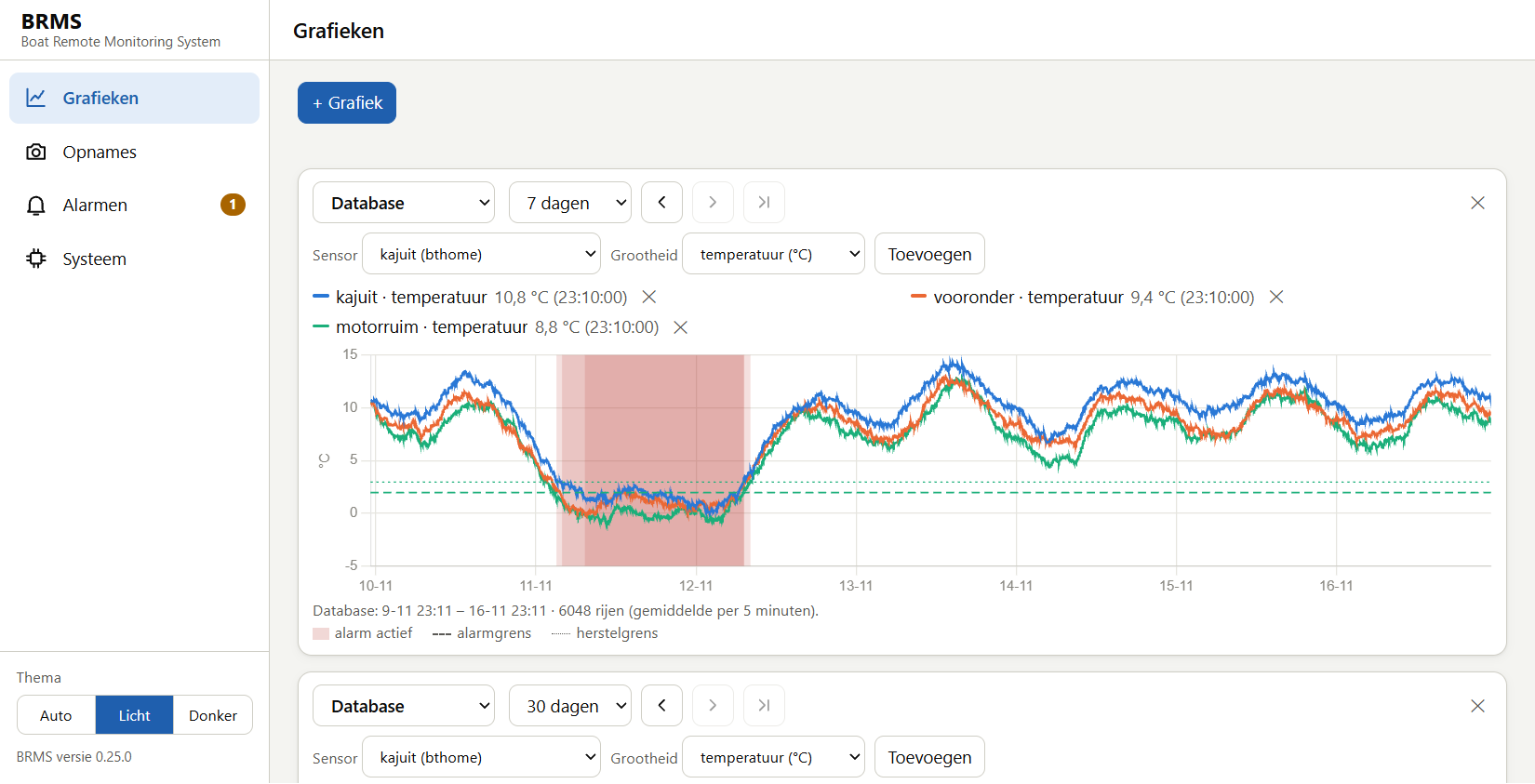
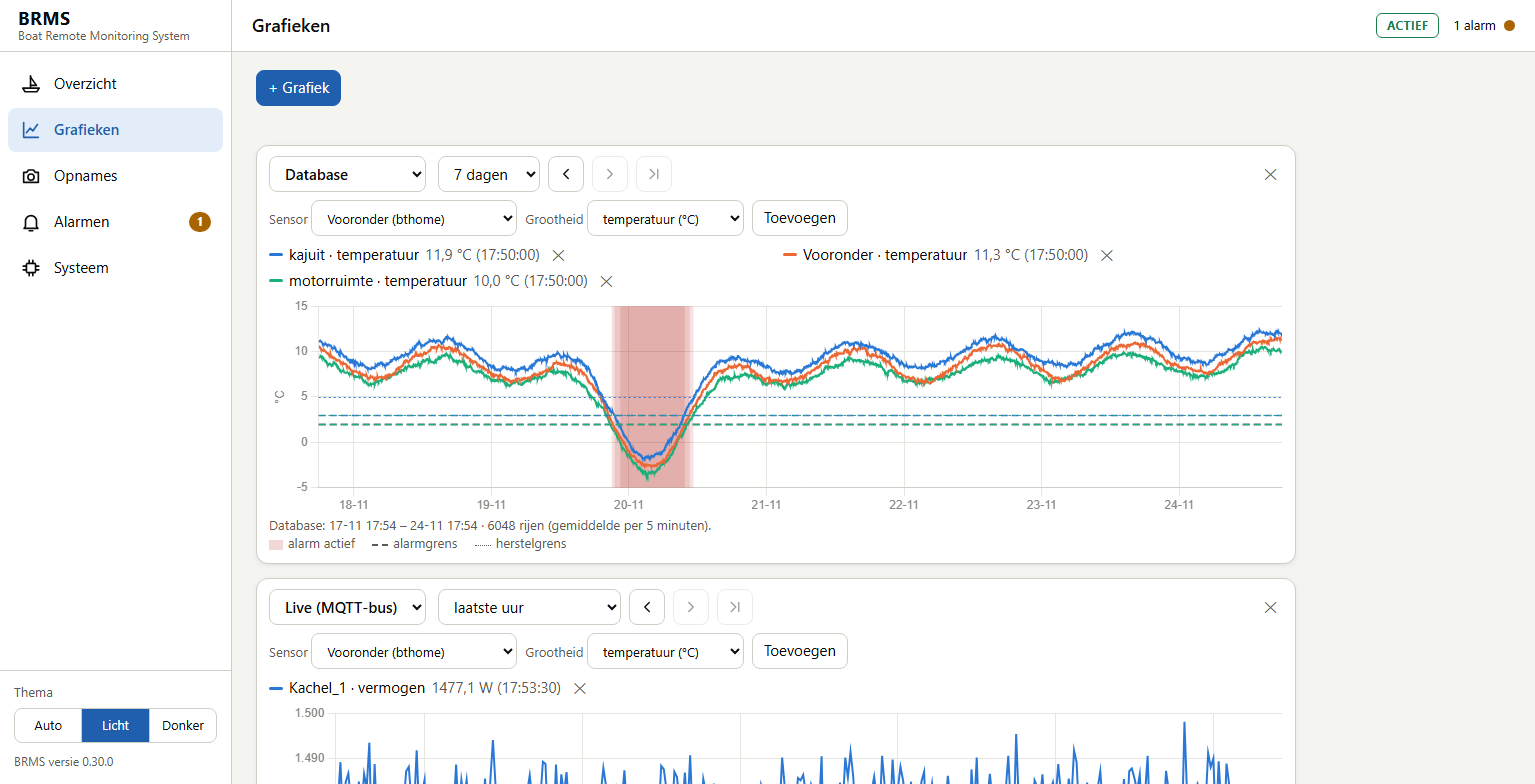
README bijgewerkt naar v0.30.0, met nieuwe schermafdrukken
Grafieken (bronnen, keuzes, bladeren in stappen van een derde), de pagina
Systeem met het blok "Sensoren en actuators", en een eigen onderdeel over het
bedienen van een relais vanuit de tekening (controls en .RW). Structuur en
keten noemen de schakellaag.

Schermafdrukken opnieuw gemaakt met gesimuleerde metingen: Overzicht met tabs
en schuifknoppen, grafieken, alarmen in de nieuwe volgorde, en nieuw de
systeempagina met het venster van een relais. alarmhistorie.png vervalt.

diff --git a/README.md b/README.md
@@ -22,24 +22,31 @@ the documentation are in Dutch.*
   e-mail, desgewenst met een foto van het moment.
 - **Schakelen** – een elektrische kachel bij vorst, via een tussenstekker (Shelly Plug M
   Gen3); alleen met walstroom, en de stekker schakelt zelf uit als BRMS wegvalt. Vanzelf
-  door een alarmregel, of met de hand met een schuifknop in het web (AUTO / AAN).
+  door een alarmregel, of met de hand met een schuifknop in het web (AUTO / AAN). Na een
+  herstart staat elk relais weer op AUTO, in zijn veilige stand.
 - **Kijken** – webinterface met grafieken (live en historisch), opnames van de camera's,
-  live-beeld en een logboek van het systeem. Desgewenst met de pagina Overzicht als eerste
-  pagina: je eigen tekeningen (SVG), elk op een tab, met op elke plek de actuele waarde.
-  Licht en donker thema, ook bruikbaar op een telefoon.
+  live-beeld, de stand van elke sensor en een logboek van het systeem. Desgewenst met de
+  pagina Overzicht als eerste pagina: je eigen tekeningen (SVG), elk op een tab, met op
+  elke plek de actuele waarde. Licht en donker thema, ook bruikbaar op een telefoon.
 - **Onbeheerd draaien** – eigen Python-code met weinig afhankelijkheden, systemd-services
   die vanzelf herstarten, geen clouddienst nodig, niets open op internet.
 
 ## Schermafdrukken
 
-De schermafdrukken tonen de echte webinterface met gesimuleerde metingen.
+De schermafdrukken tonen de echte webinterface (versie 0.30) met gesimuleerde metingen.
 
 **Overzicht** – je eigen tekening van de boot, met op elke plek de actuele waarde: temperatuur
 per ruimte, laadtoestand van de accu, de bilgepomp, spanning en vermogen van de kachels en
 de slagzij. Een waarde met een actief alarm staat rood en vet (hier: 6° slagzij over
 bakboord); een sensor die zwijgt toont `--`. Een klik op een waarde opent de grafiek ervan.
+Bij elke kachel staat de schuifknop: de ene kachel staat met de hand aan, de andere op AUTO.
 
 ![Overzicht: tekening van de boot met de actuele waarden](docs/screenshots/boot.png)
+
+Elke tekening heeft een eigen tab. Hier een tweede tekening, een eenvoudig schema van de
+energie aan boord:
+
+![Overzicht: een tweede tab met een schema van de energie](docs/screenshots/overzicht-energie.png)
 
 #### Je eigen tekening
 
@@ -52,10 +59,8 @@ De pagina Overzicht gebruikt je eigen tekening: BRMS levert er geen mee. Zo maak
    tekstvak met `sensor.grootheid`: de naam van de sensor uit `brms.toml`, een punt en de
    grootheid. Bijvoorbeeld `kajuit.temperatuur`, `accu.soc`, `bilge.bilgepomp` of
    `kachel.vermogen`. Hoofdletters tellen niet mee. Welke grootheden een sensor levert,
-   toont `brms grootheden <type>`. Met `.RW` erachter (`kachel.relais.RW`) komt op die
-   plek de bediening van een relais: een schuifknop AUTO / AAN met een stip voor de
-   werkelijke stand. Dat werkt alleen als de sensor in `brms.toml` de regel
-   `controls = ["relais"]` heeft.
+   toont `brms grootheden <type>`. Een relais bedienen vanuit de tekening kan ook: zie
+   "Een relais bedienen vanuit de tekening" hieronder.
 3. **Zet het bestand op de Pi**, in de map `config/` naast `brms.toml`, bijvoorbeeld vanaf
    je pc met `scp boot.svg brms:BRMS/config/`.
 4. **Zet de pagina aan** met twee regels in `brms.toml`, en herstart één keer met
@@ -84,8 +89,68 @@ Staat de slagzij twee keer in de tekening (boven voor bakboord, onder voor stuur
 dan verschijnt de waarde alleen aan de kant waar de boot naartoe helt. Op een telefoon die
 rechtop staat, draait de tekening een kwartslag, met de boeg naar boven.
 
-**Grafieken** – een week temperatuur van drie sensoren. De rode vlakken zijn de perioden
-waarin het alarm "Vorst" actief was; de stippellijnen zijn de alarmgrens en de herstelgrens.
+#### Een relais bedienen vanuit de tekening
+
+Een relais (de tussenstekker van de kachel) kun je in de tekening niet alleen aflezen, maar
+ook bedienen. Dat vraagt twee dingen:
+
+1. **Sta de bediening toe in `brms.toml`**, met de regel `controls` bij de sensor:
+
+   ```toml
+   [[sensor]]
+   type = "shelly-relais"
+   id = "kachel"
+   naam = "kachel"
+   adres = "192.168.1.121"
+   veilige_stand = "uit"
+   voorwaarde = { kachel.walstroom = 1 }
+   controls = ["relais"]     # deze grootheid mag bediend worden
+   ```
+
+   Welke grootheden van een type te bedienen zijn, toont `brms grootheden shelly-relais`
+   in de kolom BEDIENING. Controleer en herstart daarna met `brms herstart`.
+2. **Typ in de tekening een tekstvak met `.RW` achter de naam**: `kachel.relais.RW`. Op
+   die plek komt de schuifknop. Zet het nieuwe bestand op de Pi en ververs de pagina.
+
+De toevoeging achter de naam bepaalt wat er op die plek komt:
+
+| In de tekening | Op die plek |
+|---|---|
+| `kachel.relais` | de waarde, alleen lezen |
+| `kachel.relais.RO` | hetzelfde (RO = read only) |
+| `kachel.relais.RW` | de bediening (RW = read write): de schuifknop |
+
+Dezelfde grootheid mag er vaker in staan, bijvoorbeeld op één plek de schuifknop en op een
+andere het vermogen (`kachel.vermogen`). Staat de grootheid niet in `controls`, dan gebeurt
+er met `kachel.relais.RW` niets: de tekst blijft in de tekening staan zoals je hem typte.
+
+De schuifknop heeft twee keuzes:
+
+- **AUTO** – BRMS beslist: het relais volgt de alarmregel die het schakelt (de kachel aan
+  bij vorst) en staat anders in zijn veilige stand.
+- **AAN** – met de hand aan, tot je terugzet naar AUTO. Bij een relais met
+  `veilige_stand = "aan"` is de tweede keuze **UIT**.
+
+De stip naast de knop toont de werkelijke stand van het relais. De `voorwaarde` van het
+relais (hier: walstroom aanwezig) gaat voor alles: zonder walstroom blijft de kachel uit,
+ook met de knop op AAN. Na een herstart staat elk relais weer op AUTO. Dezelfde schuifknop
+staat op de pagina Systeem, in het venster van de sensor.
+
+**Grafieken** – je stelt zelf samen wat je ziet: met "+ Grafiek" voeg je een grafiek toe
+en kies je per reeks een sensor en een grootheid (hooguit acht reeksen per grafiek). Elke
+grafiek heeft een eigen bron:
+
+| Bron | Wat je ziet | Keuzes | Begint met |
+|---|---|---|---|
+| Live (MQTT-bus) | elke meting zoals hij binnenkomt, uit het geheugen van de webservice (hooguit 24 uur, leeg na een herstart) | laatste 50 of 100 metingen; 10 of 30 minuten; 1, 3, 6, 12 of 24 uur | laatste uur |
+| Database | de opgeslagen rijen, één per 5 minuten | 1, 6 of 24 uur; 3 of 7 dagen; 1 maand | 24 uur |
+
+Met `<` en `>` blader je terug en vooruit in stappen van een derde van de gekozen periode
+(bij "laatste 50 / 100 metingen" de helft), zodat een deel van het vorige beeld blijft
+staan; de derde knop brengt je terug naar nu.
+
+Hieronder een week temperatuur van drie sensoren. De rode vlakken zijn de perioden waarin
+het alarm "Vorst" actief was; de stippellijnen zijn de alarmgrens en de herstelgrens.
 
 ![Grafieken: temperatuur van drie sensoren met een vorstalarm](docs/screenshots/grafieken.png)
 
@@ -93,17 +158,27 @@ Een maand laadtoestand van de accu en de walstroom: de walstroom viel bijna een 
 
 ![Grafiek: laadtoestand van de accu en walstroom](docs/screenshots/grafiek-accu-walstroom.png)
 
-**Alarmen** – wat er nu actief is, de alarmregels met hun schakelaar, en wat er eerder is
-opgetreden.
+**Alarmen** – wat er nu actief is, wat er eerder is opgetreden, en de alarmregels met hun
+schakelaar.
 
-![Alarmen: actief alarm en de alarmregels](docs/screenshots/alarmen.png)
-
-![Alarmen: de opgetreden alarmen](docs/screenshots/alarmhistorie.png)
+![Alarmen: actief alarm, de opgetreden alarmen en de alarmregels](docs/screenshots/alarmen.png)
 
 **Opnames** – elke paar minuten een foto per camera, een foto of video bij een alarm of op
 verzoek, en live-beeld.
 
 ![Opnames: foto's en video's van de camera in de kajuit](docs/screenshots/opnames.png)
+
+**Systeem** – de opslag, het logboek, de services en het herstarten van BRMS of de Pi. In
+het blok "Sensoren en actuators" staat per sensor een tegel met een stip (groen: live,
+rood: geen metingen) en het tijdstip van de laatste meting. De knop op de tegel opent een
+venster met alle grootheden van die sensor en hun laatste waarde; bij een relais staat
+daar ook de schuifknop AUTO / AAN.
+
+![Systeem: opslag, sensoren en actuators, logboek en services](docs/screenshots/systeem.png)
+
+Het venster van een kachel, met de schuifknop op AAN:
+
+![Systeem: het venster van een relais met de grootheden en de schuifknop](docs/screenshots/systeem-venster.png)
 
 ### Donker thema
 
@@ -111,10 +186,10 @@ Elke pagina is er in een licht en een donker thema. Onderin het menu kies je **A
 (volgt de instelling van het toestel), **Licht** of **Donker**; de keuze wordt per browser
 onthouden. Handig als je 's avonds nog even kijkt hoe de boot erbij ligt.
 
-De bootpagina: de vakjes met de waarden en de tekst in de tekening kleuren mee, de
+De pagina Overzicht: de vakjes met de waarden en de tekst in de tekening kleuren mee, de
 tekening zelf blijft zoals je haar getekend hebt.
 
-![Bootpagina in het donkere thema](docs/screenshots/boot-donker.png)
+![Overzicht in het donkere thema](docs/screenshots/boot-donker.png)
 
 De grafieken, met dezelfde week temperatuur en het vorstalarm:
 
@@ -173,7 +248,7 @@ waarden (bevestig, en geef bij de duur alleen Enter).
 | `brms monitor stop` | Het monitorvak sluiten. |
 | `brms sim <sensor ...>` | Gesimuleerde data door de keten sturen. Met een duur: een test die door de alarmgrenzen loopt. Alleen Enter: een demo die doorloopt. `all` = alle sensoren. |
 | `brms sim stop <sensor ...>` | De simulatie of demo stoppen (ook `brms sim stop all`). |
-| `brms grootheden [type]` | Alle grootheden, of wat een sensortype levert (de namen voor `brms.toml`). |
+| `brms grootheden [type]` | Alle grootheden, of wat een sensortype levert (de namen voor `brms.toml`). Bij een type toont de kolom BEDIENING welke grootheden te bedienen zijn. |
 
 `brms --help` toont de volledige lijst. Op de pc werkt hetzelfde met `python -m brms ...`.
 
@@ -184,11 +259,12 @@ brms/            Python-package
   readers/       één module per sensortype (BTHome, Ruuvi, Victron, Shelly, camera)
   storage.py     SQLite (WAL)
   alarms.py      alarmlaag: alarmregels beoordelen
+  schakel.py     schakellaag: beslist over de stand van elk relais (alarmregel of hand)
   melding.py     meldingen via Telegram en e-mail
   config.py      inlezen config/brms.toml
   go2rtc.py      live-beeld van de camera's via het programma go2rtc (WebRTC)
   systeem.py     logboek uit journald, status van de services, herstarten
-  web/           Flask + Chart.js: boot, grafieken, opnames, alarmen en systeem
+  web/           Flask + Chart.js: overzicht, grafieken, opnames, alarmen en systeem
 config/          brms.example.toml; eigen brms.toml ernaast (niet in git)
 deploy/          install.sh, update.sh, go2rtc.sh (haalt go2rtc op naar bin/), rechten.sh
 deploy/polkit/   polkit-regel: het web mag de services en de Pi herstarten
@@ -199,8 +275,10 @@ data/            SQLite-database en camera-opnames (niet in git)
 tests/
 ```
 
-De keten is: reader → MQTT (Mosquitto) → opslag → SQLite, met de alarmlaag en het web
-ernaast. Het ontwerp, de besluiten en de open punten staan in `ARCHITECTURE.md`.
+De keten is: reader → MQTT (Mosquitto) → opslag → SQLite, met de alarmlaag, de
+schakellaag en het web ernaast. Een relais schakelen gaat in drie stappen: de alarmlaag of
+het web vraagt, de schakellaag beslist, de Shelly-reader voert uit. Het ontwerp, de
+besluiten en de open punten staan in `ARCHITECTURE.md`.
 
 ## Verantwoording
 
